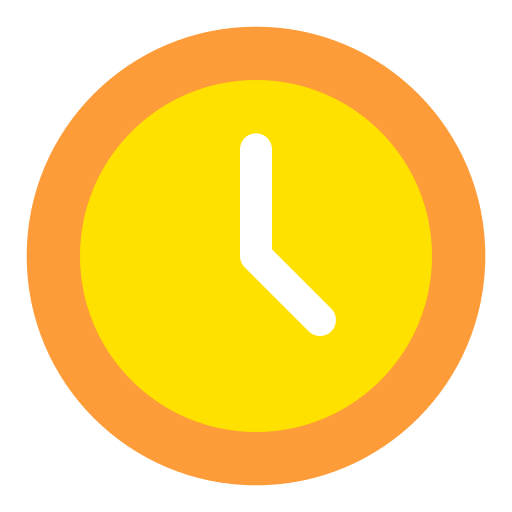
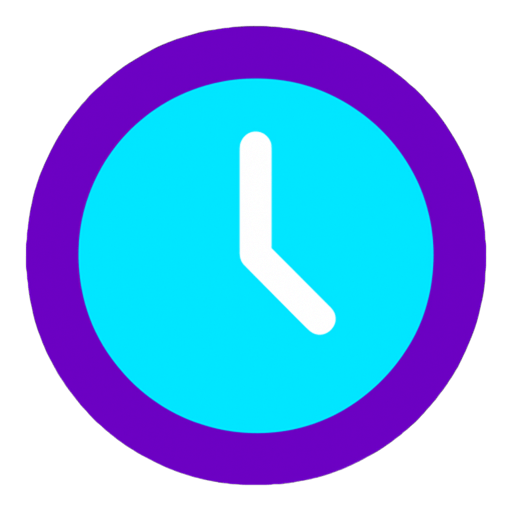
Relógio digital

diff --git a/style.css b/style.css
@@ -8,7 +8,7 @@
 
 body {
   height: 100vh;
-  background: linear-gradient(120deg, #ffe53bd8, #ff2525da);
+  background: linear-gradient(120deg, #00fff7, #7f00ff);
   display: flex;
   align-items: center;
   justify-content: center;
